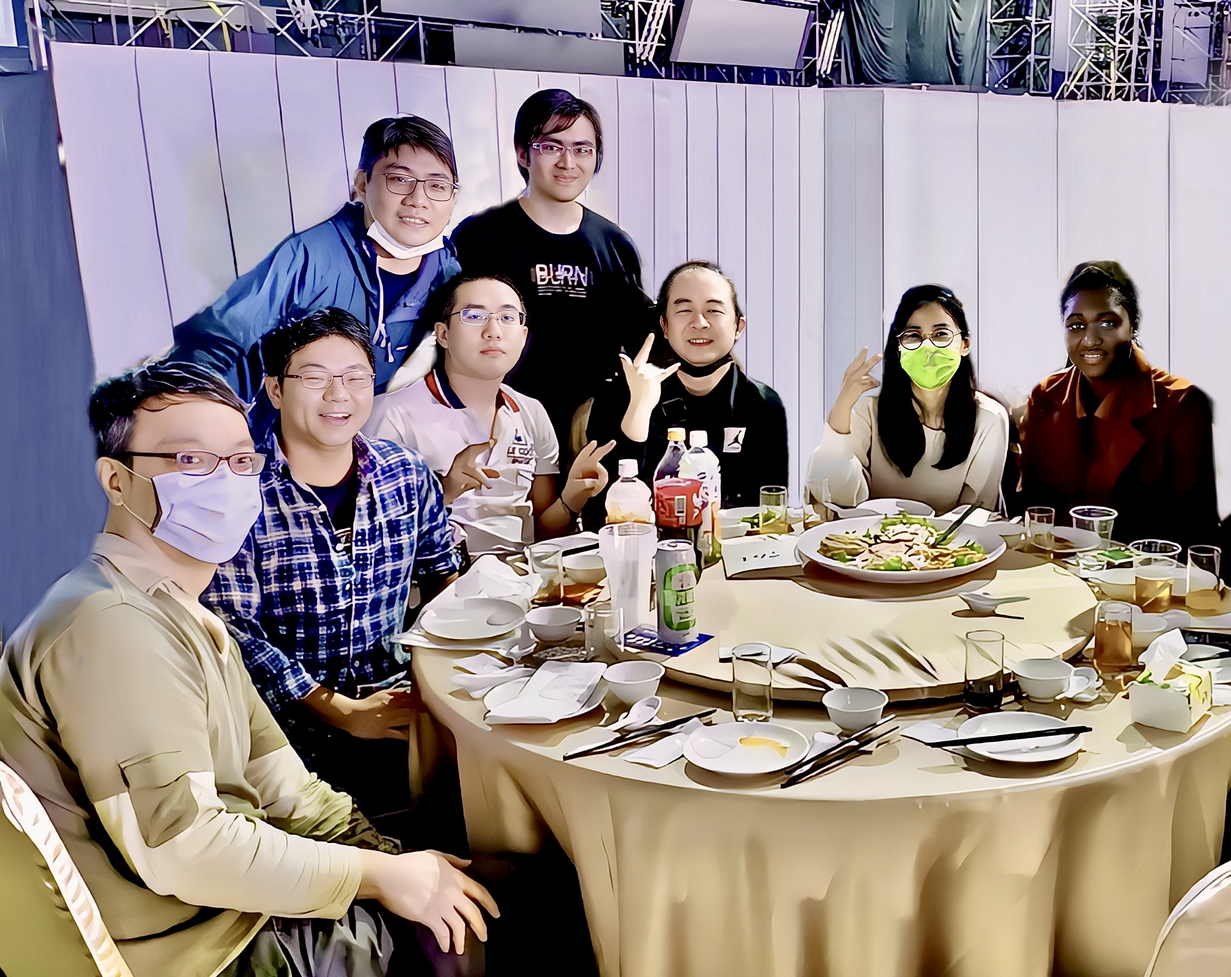
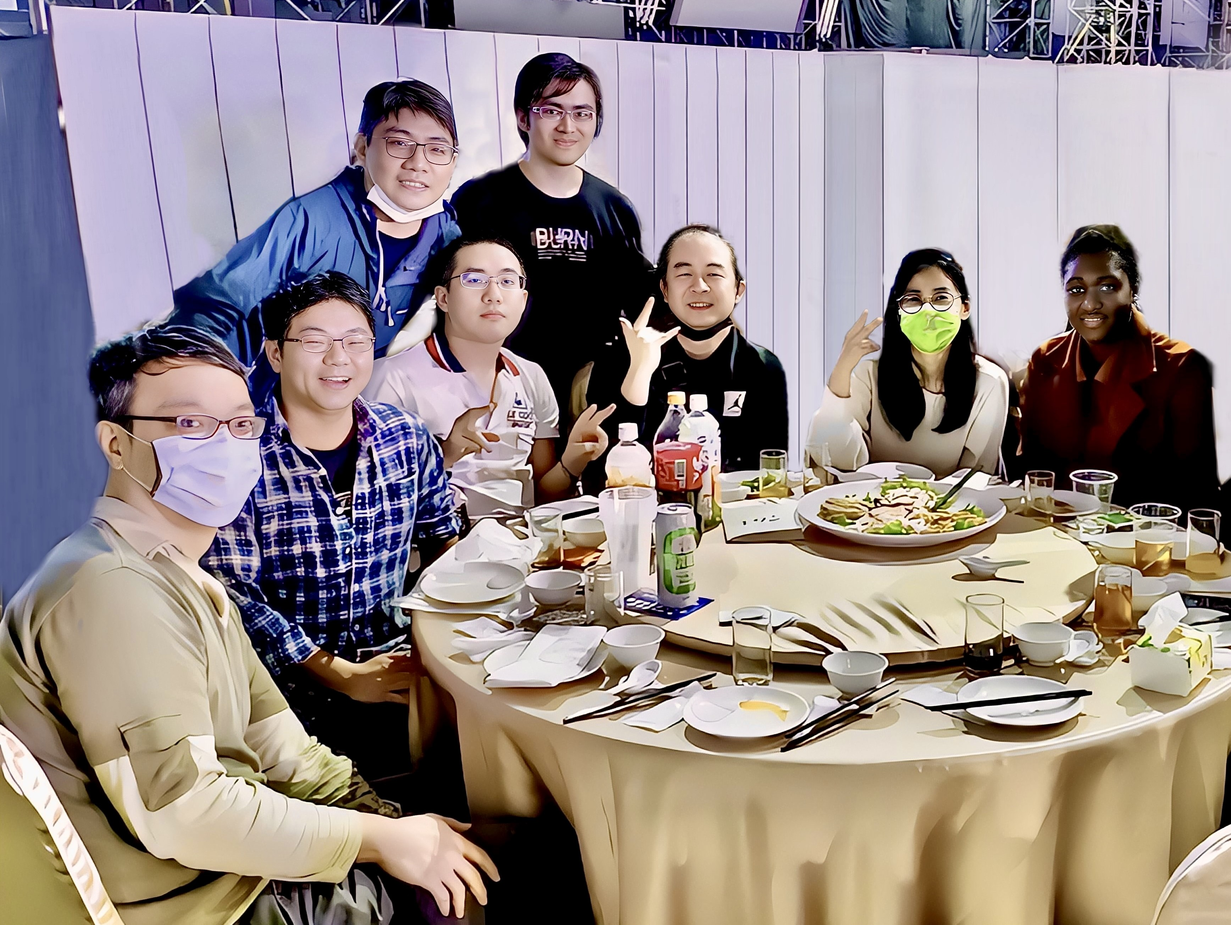
update photo

diff --git a/index.html b/index.html
@@ -501,7 +501,7 @@
             </tr>	
           </table>
         </div>
-        <img src="https://raw.githubusercontent.com/dustinchen26/maple/master/maple_photo4.jpg" alt="Photo" />
+        <img src="https://raw.githubusercontent.com/dustinchen26/maple/refs/heads/master/maple_photo1.jpg" alt="Photo" />
         <br>
 <div class="author-info">
   Copyright © [2023] [Dustin_Chen@compal.com]. All rights reserved.
